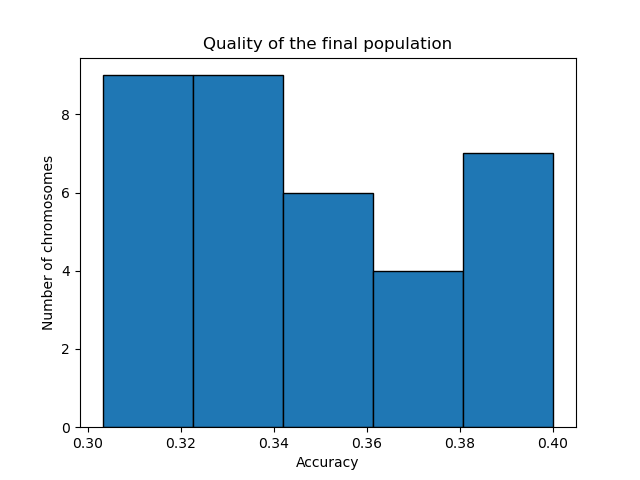
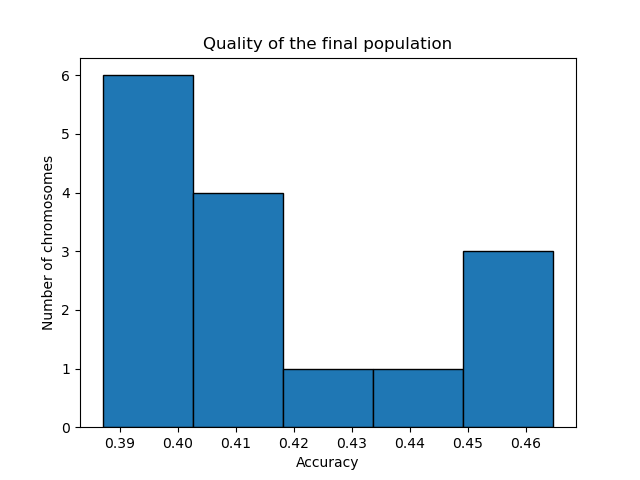
update the graphics

diff --git a/main.py b/main.py
@@ -2,6 +2,7 @@ import conv
 import conv_utils
 import genetic_utils
 import torch
+import random
 import matplotlib.pyplot as plt
 
 from torch.utils.data import DataLoader
@@ -53,7 +54,7 @@ def build_suboptimal_chromosomes(nb_of_instances):
 
 
 
-def main(dataset:conv_utils.DatasetName=conv_utils.DatasetName.CIFAR10, train_size=0.3, test_size=0.1):
+def main(dataset:conv_utils.DatasetName=conv_utils.DatasetName.CIFAR100, train_size=0.3, test_size=0.1):
     """
 
     :param dataset: enum value designing the name of the dataset
@@ -73,7 +74,7 @@ def main(dataset:conv_utils.DatasetName=conv_utils.DatasetName.CIFAR10, train_si
 
 
     #building initial chromosomes // ajouter 
-    if dataset == conv_utils.DatasetName.MINST:
+    if False:#dataset == conv_utils.DatasetName.MINST:
         random_chromosomes = build_suboptimal_chromosomes(10)
     else:
         random_chromosomes = genetic_utils.build_random_chromosomes(15)
@@ -139,16 +140,13 @@ def main(dataset:conv_utils.DatasetName=conv_utils.DatasetName.CIFAR10, train_si
         if accuracy > worst["accuracy"]:
             model_history.history.remove(worst)
             model_history.add_instance(chromosome=mutated_chromosome, model=model, accuracy=accuracy)
-            print("Replaced worst model with new child.")
-        else:
-            print("Child was not better than worst in population — discarded.")
+            #print("Replaced worst model with new child.")
+        #else:
+            #print("Child was not better than worst in population — discarded.")
         
-         # tu peux  l'enlever si tu veux
-        best_model = max(model_history.history, key=lambda x: x["accuracy"])
-    
-    
-    print(f"Best accuracy so far: {best_model['accuracy']:.4f}") #added this just to see the best accuracy so far
-    print(f"Best chromosome: {best_model['chromosome']}")
+    # tu peux  l'enlever si tu veux
+    best_model = max(model_history.history, key=lambda x: x["accuracy"])
+    print(f"Best chromosome: accuracy: {best_model['accuracy']:.4f}, {best_model['chromosome']}")
 
     # display the evolution of the offsprings
     plt.plot(range(len(offsprings_accuracies)), offsprings_accuracies, marker='o')

diff --git a/genetic_utils.py b/genetic_utils.py
@@ -180,11 +180,11 @@ def calculate_diversity(population):
     for i in range(n):
         for j in range(i + 1, n):
             difference = compare_chromosomes(population[i], population[j])
-            print(f"Difference between chromosome {i} and {j}: {difference}")
+            #print(f"Difference between chromosome {i} and {j}: {difference}")
             total_difference += difference
     num_pairs = n * (n - 1) / 2
     diversity_score = total_difference / num_pairs if num_pairs > 0 else 0
-    print(f"Calculated Diversity Score: {diversity_score}")
+    #print(f"Calculated Diversity Score: {diversity_score}")
     return diversity_score
 
 
